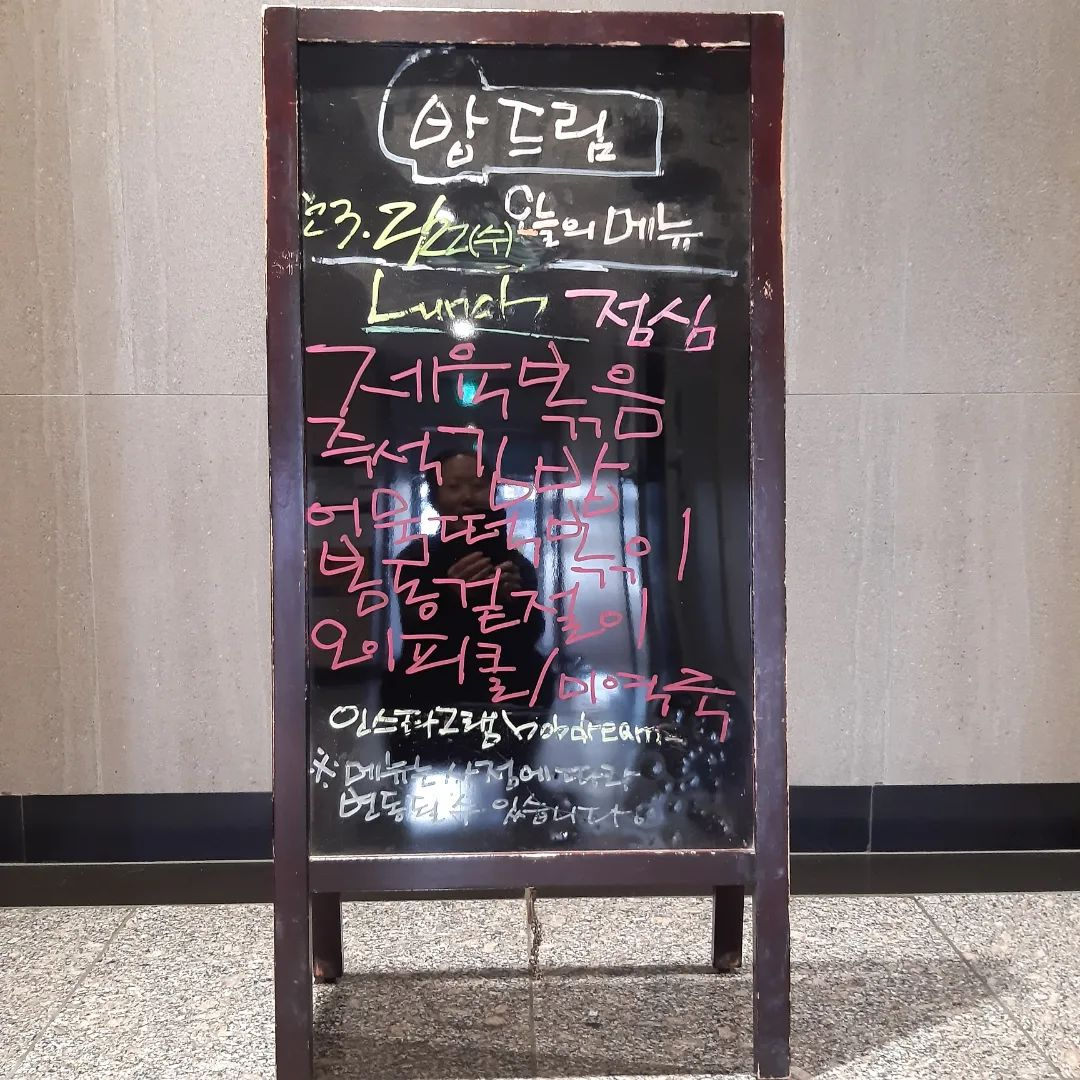
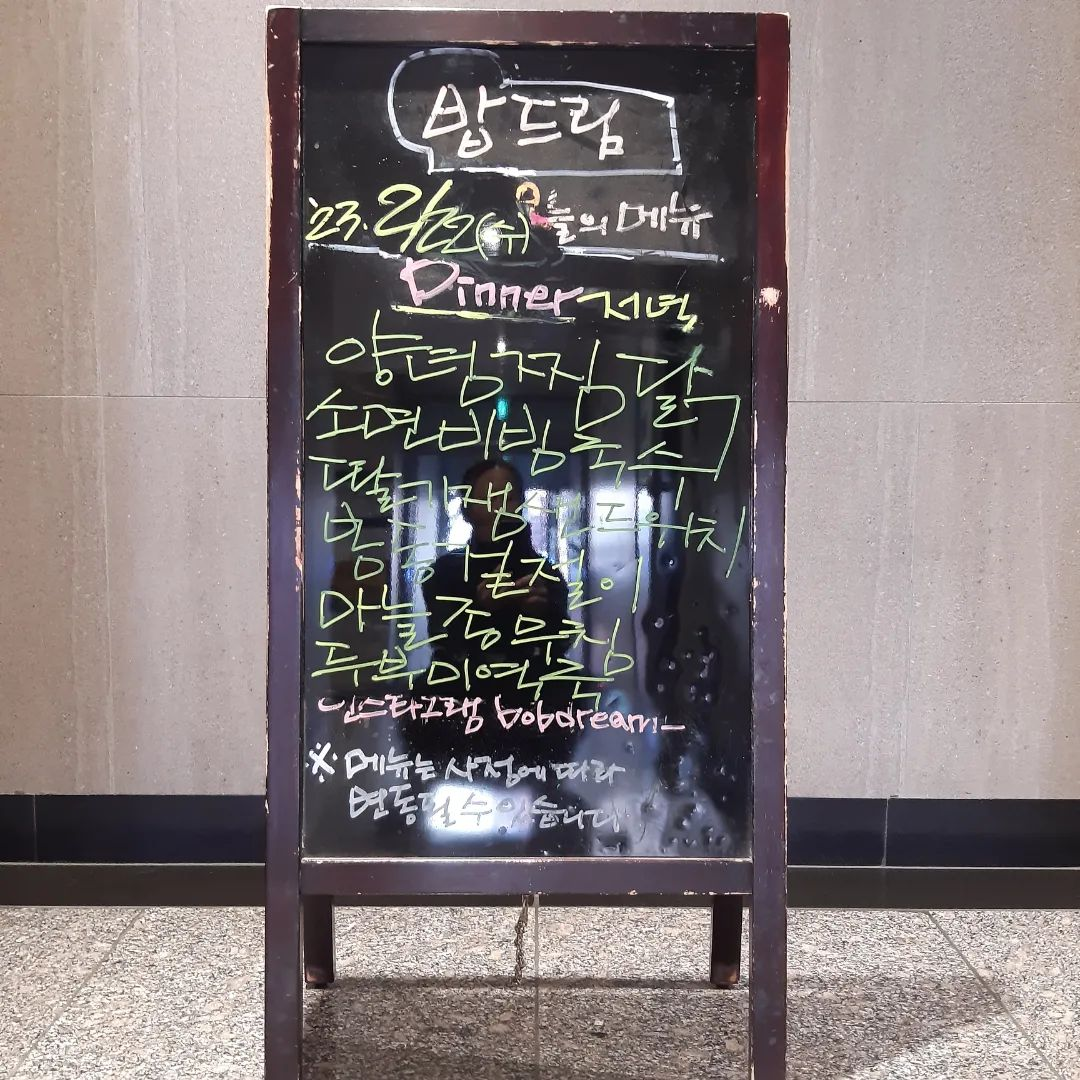
auto push

diff --git a/server/dreamtodaymenu.html b/server/dreamtodaymenu.html
@@ -1,1 +1,1 @@
-<h1 class="_aacl _aaco _aacu _aacx _aad7 _aade">2023.2.22 수요일 점심 메뉴🍚<br>🔸제육볶음 <br>🔸즉석김밥 <br>🔸어묵떡볶이 <br>🔸봄동겉절이 <br>🔸오이피클 <br>🔸미역국 <br><br><a class="x1i10hfl xjbqb8w x6umtig x1b1mbwd xaqea5y xav7gou x9f619 x1ypdohk xt0psk2 xe8uvvx xdj266r x11i5rnm xat24cr x1mh8g0r xexx8yu x4uap5 x18d9i69 xkhd6sd x16tdsg8 x1hl2dhg xggy1nq x1a2a7pz  _aa9_ _a6hd" href="/explore/tags/food/" role="link" tabindex="0">#food</a><a class="x1i10hfl xjbqb8w x6umtig x1b1mbwd xaqea5y xav7gou x9f619 x1ypdohk xt0psk2 xe8uvvx xdj266r x11i5rnm xat24cr x1mh8g0r xexx8yu x4uap5 x18d9i69 xkhd6sd x16tdsg8 x1hl2dhg xggy1nq x1a2a7pz  _aa9_ _a6hd" href="/explore/tags/koreanfood/" role="link" tabindex="0">#koreanfood</a><a class="x1i10hfl xjbqb8w x6umtig x1b1mbwd xaqea5y xav7gou x9f619 x1ypdohk xt0psk2 xe8uvvx xdj266r x11i5rnm xat24cr x1mh8g0r xexx8yu x4uap5 x18d9i69 xkhd6sd x16tdsg8 x1hl2dhg xggy1nq x1a2a7pz  _aa9_ _a6hd" href="/explore/tags/buffet/" role="link" tabindex="0">#buffet</a><a class="x1i10hfl xjbqb8w x6umtig x1b1mbwd xaqea5y xav7gou x9f619 x1ypdohk xt0psk2 xe8uvvx xdj266r x11i5rnm xat24cr x1mh8g0r xexx8yu x4uap5 x18d9i69 xkhd6sd x16tdsg8 x1hl2dhg xggy1nq x1a2a7pz  _aa9_ _a6hd" href="/explore/tags/%EB%B0%A5%EB%93%9C%EB%A6%BC/" role="link" tabindex="0">#밥드림</a><a class="x1i10hfl xjbqb8w x6umtig x1b1mbwd xaqea5y xav7gou x9f619 x1ypdohk xt0psk2 xe8uvvx xdj266r x11i5rnm xat24cr x1mh8g0r xexx8yu x4uap5 x18d9i69 xkhd6sd x16tdsg8 x1hl2dhg xggy1nq x1a2a7pz  _aa9_ _a6hd" href="/explore/tags/%EB%A7%9B%EC%A7%91/" role="link" tabindex="0">#맛집</a><a class="x1i10hfl xjbqb8w x6umtig x1b1mbwd xaqea5y xav7gou x9f619 x1ypdohk xt0psk2 xe8uvvx xdj266r x11i5rnm xat24cr x1mh8g0r xexx8yu x4uap5 x18d9i69 xkhd6sd x16tdsg8 x1hl2dhg xggy1nq x1a2a7pz  _aa9_ _a6hd" href="/explore/tags/%EB%85%B8%EB%9F%89%EC%A7%84/" role="link" tabindex="0">#노량진</a><a class="x1i10hfl xjbqb8w x6umtig x1b1mbwd xaqea5y xav7gou x9f619 x1ypdohk xt0psk2 xe8uvvx xdj266r x11i5rnm xat24cr x1mh8g0r xexx8yu x4uap5 x18d9i69 xkhd6sd x16tdsg8 x1hl2dhg xggy1nq x1a2a7pz  _aa9_ _a6hd" href="/explore/tags/%EB%85%B8%EB%9F%89%EC%A7%84%EB%A7%9B%EC%A7%91/" role="link" tabindex="0">#노량진맛집</a><a class="x1i10hfl xjbqb8w x6umtig x1b1mbwd xaqea5y xav7gou x9f619 x1ypdohk xt0psk2 xe8uvvx xdj266r x11i5rnm xat24cr x1mh8g0r xexx8yu x4uap5 x18d9i69 xkhd6sd x16tdsg8 x1hl2dhg xggy1nq x1a2a7pz  _aa9_ _a6hd" href="/explore/tags/%EB%85%B8%EB%9F%89%EC%A7%84%EB%A7%9B%EC%A7%91/" role="link" tabindex="0">#노량진맛집</a><a class="x1i10hfl xjbqb8w x6umtig x1b1mbwd xaqea5y xav7gou x9f619 x1ypdohk xt0psk2 xe8uvvx xdj266r x11i5rnm xat24cr x1mh8g0r xexx8yu x4uap5 x18d9i69 xkhd6sd x16tdsg8 x1hl2dhg xggy1nq x1a2a7pz  _aa9_ _a6hd" href="/explore/tags/%EC%A0%90%EC%8B%AC/" role="link" tabindex="0">#점심</a><a class="x1i10hfl xjbqb8w x6umtig x1b1mbwd xaqea5y xav7gou x9f619 x1ypdohk xt0psk2 xe8uvvx xdj266r x11i5rnm xat24cr x1mh8g0r xexx8yu x4uap5 x18d9i69 xkhd6sd x16tdsg8 x1hl2dhg xggy1nq x1a2a7pz  _aa9_ _a6hd" href="/explore/tags/%EC%A0%80%EB%85%81/" role="link" tabindex="0">#저녁</a><a class="x1i10hfl xjbqb8w x6umtig x1b1mbwd xaqea5y xav7gou x9f619 x1ypdohk xt0psk2 xe8uvvx xdj266r x11i5rnm xat24cr x1mh8g0r xexx8yu x4uap5 x18d9i69 xkhd6sd x16tdsg8 x1hl2dhg xggy1nq x1a2a7pz  _aa9_ _a6hd" href="/explore/tags/%EB%85%B8%EB%9F%89/" role="link" tabindex="0">#노량</a><a class="x1i10hfl xjbqb8w x6umtig x1b1mbwd xaqea5y xav7gou x9f619 x1ypdohk xt0psk2 xe8uvvx xdj266r x11i5rnm xat24cr x1mh8g0r xexx8yu x4uap5 x18d9i69 xkhd6sd x16tdsg8 x1hl2dhg xggy1nq x1a2a7pz  _aa9_ _a6hd" href="/explore/tags/%EA%B3%B5%EB%AC%B4%EC%9B%90/" role="link" tabindex="0">#공무원</a><a class="x1i10hfl xjbqb8w x6umtig x1b1mbwd xaqea5y xav7gou x9f619 x1ypdohk xt0psk2 xe8uvvx xdj266r x11i5rnm xat24cr x1mh8g0r xexx8yu x4uap5 x18d9i69 xkhd6sd x16tdsg8 x1hl2dhg xggy1nq x1a2a7pz  _aa9_ _a6hd" href="/explore/tags/%EA%B3%B5%EC%8B%9C/" role="link" tabindex="0">#공시</a><a class="x1i10hfl xjbqb8w x6umtig x1b1mbwd xaqea5y xav7gou x9f619 x1ypdohk xt0psk2 xe8uvvx xdj266r x11i5rnm xat24cr x1mh8g0r xexx8yu x4uap5 x18d9i69 xkhd6sd x16tdsg8 x1hl2dhg xggy1nq x1a2a7pz  _aa9_ _a6hd" href="/explore/tags/%EA%B3%B5%EC%8B%9C%EC%83%9D/" role="link" tabindex="0">#공시생</a><a class="x1i10hfl xjbqb8w x6umtig x1b1mbwd xaqea5y xav7gou x9f619 x1ypdohk xt0psk2 xe8uvvx xdj266r x11i5rnm xat24cr x1mh8g0r xexx8yu x4uap5 x18d9i69 xkhd6sd x16tdsg8 x1hl2dhg xggy1nq x1a2a7pz  _aa9_ _a6hd" href="/explore/tags/%EA%B2%BD%EC%B0%B0/" role="link" tabindex="0">#경찰</a><a class="x1i10hfl xjbqb8w x6umtig x1b1mbwd xaqea5y xav7gou x9f619 x1ypdohk xt0psk2 xe8uvvx xdj266r x11i5rnm xat24cr x1mh8g0r xexx8yu x4uap5 x18d9i69 xkhd6sd x16tdsg8 x1hl2dhg xggy1nq x1a2a7pz  _aa9_ _a6hd" href="/explore/tags/%EA%B2%BD%EC%8B%9C%EC%83%9D/" role="link" tabindex="0">#경시생</a><a class="x1i10hfl xjbqb8w x6umtig x1b1mbwd xaqea5y xav7gou x9f619 x1ypdohk xt0psk2 xe8uvvx xdj266r x11i5rnm xat24cr x1mh8g0r xexx8yu x4uap5 x18d9i69 xkhd6sd x16tdsg8 x1hl2dhg xggy1nq x1a2a7pz  _aa9_ _a6hd" href="/explore/tags/%EC%9E%84%EA%B3%A0/" role="link" tabindex="0">#임고</a><a class="x1i10hfl xjbqb8w x6umtig x1b1mbwd xaqea5y xav7gou x9f619 x1ypdohk xt0psk2 xe8uvvx xdj266r x11i5rnm xat24cr x1mh8g0r xexx8yu x4uap5 x18d9i69 xkhd6sd x16tdsg8 x1hl2dhg xggy1nq x1a2a7pz  _aa9_ _a6hd" href="/explore/tags/%EC%9E%84%EA%B3%A0%EC%83%9D/" role="link" tabindex="0">#임고생</a><a class="x1i10hfl xjbqb8w x6umtig x1b1mbwd xaqea5y xav7gou x9f619 x1ypdohk xt0psk2 xe8uvvx xdj266r x11i5rnm xat24cr x1mh8g0r xexx8yu x4uap5 x18d9i69 xkhd6sd x16tdsg8 x1hl2dhg xggy1nq x1a2a7pz  _aa9_ _a6hd" href="/explore/tags/%EC%9E%84%EC%9A%A9%EA%B3%A0%EC%8B%9C%EC%83%9D/" role="link" tabindex="0">#임용고시생</a><a class="x1i10hfl xjbqb8w x6umtig x1b1mbwd xaqea5y xav7gou x9f619 x1ypdohk xt0psk2 xe8uvvx xdj266r x11i5rnm xat24cr x1mh8g0r xexx8yu x4uap5 x18d9i69 xkhd6sd x16tdsg8 x1hl2dhg xggy1nq x1a2a7pz  _aa9_ _a6hd" href="/explore/tags/%EB%A8%B9%EC%8A%A4%ED%83%80%EA%B7%B8%EB%9E%A8/" role="link" tabindex="0">#먹스타그램</a><a class="x1i10hfl xjbqb8w x6umtig x1b1mbwd xaqea5y xav7gou x9f619 x1ypdohk xt0psk2 xe8uvvx xdj266r x11i5rnm xat24cr x1mh8g0r xexx8yu x4uap5 x18d9i69 xkhd6sd x16tdsg8 x1hl2dhg xggy1nq x1a2a7pz  _aa9_ _a6hd" href="/explore/tags/%ED%91%B8%EB%93%9C%EC%8A%A4%ED%83%80%EA%B7%B8%EB%9E%A8/" role="link" tabindex="0">#푸드스타그램</a><a class="x1i10hfl xjbqb8w x6umtig x1b1mbwd xaqea5y xav7gou x9f619 x1ypdohk xt0psk2 xe8uvvx xdj266r x11i5rnm xat24cr x1mh8g0r xexx8yu x4uap5 x18d9i69 xkhd6sd x16tdsg8 x1hl2dhg xggy1nq x1a2a7pz  _aa9_ _a6hd" href="/explore/tags/%ED%95%9C%EC%8B%9D/" role="link" tabindex="0">#한식</a><a class="x1i10hfl xjbqb8w x6umtig x1b1mbwd xaqea5y xav7gou x9f619 x1ypdohk xt0psk2 xe8uvvx xdj266r x11i5rnm xat24cr x1mh8g0r xexx8yu x4uap5 x18d9i69 xkhd6sd x16tdsg8 x1hl2dhg xggy1nq x1a2a7pz  _aa9_ _a6hd" href="/explore/tags/%EB%B7%94%ED%8E%98/" role="link" tabindex="0">#뷔페</a><a class="x1i10hfl xjbqb8w x6umtig x1b1mbwd xaqea5y xav7gou x9f619 x1ypdohk xt0psk2 xe8uvvx xdj266r x11i5rnm xat24cr x1mh8g0r xexx8yu x4uap5 x18d9i69 xkhd6sd x16tdsg8 x1hl2dhg xggy1nq x1a2a7pz  _aa9_ _a6hd" href="/explore/tags/%EB%93%9C%EB%A6%BC%ED%83%80%EC%9B%8C/" role="link" tabindex="0">#드림타워</a><a class="x1i10hfl xjbqb8w x6umtig x1b1mbwd xaqea5y xav7gou x9f619 x1ypdohk xt0psk2 xe8uvvx xdj266r x11i5rnm xat24cr x1mh8g0r xexx8yu x4uap5 x18d9i69 xkhd6sd x16tdsg8 x1hl2dhg xggy1nq x1a2a7pz  _aa9_ _a6hd" href="/explore/tags/%EB%93%9C%EB%A6%BC%ED%83%80%EC%9B%8C%EB%B7%94%ED%8E%98/" role="link" tabindex="0">#드림타워뷔페</a></h1>
+<h1 class="_aacl _aaco _aacu _aacx _aad7 _aade">2023.2.22 수요일 저녁 메뉴🍚<br>🔸양념찜닭 <br>🔸소면비빔국수 <br>🔸딸기잼샌드위치 <br>🔸봄동겉절이 <br>🔸마늘종무침 <br>🔸두부미역국<br><br><a class="x1i10hfl xjbqb8w x6umtig x1b1mbwd xaqea5y xav7gou x9f619 x1ypdohk xt0psk2 xe8uvvx xdj266r x11i5rnm xat24cr x1mh8g0r xexx8yu x4uap5 x18d9i69 xkhd6sd x16tdsg8 x1hl2dhg xggy1nq x1a2a7pz  _aa9_ _a6hd" href="/explore/tags/food/" role="link" tabindex="0">#food</a><a class="x1i10hfl xjbqb8w x6umtig x1b1mbwd xaqea5y xav7gou x9f619 x1ypdohk xt0psk2 xe8uvvx xdj266r x11i5rnm xat24cr x1mh8g0r xexx8yu x4uap5 x18d9i69 xkhd6sd x16tdsg8 x1hl2dhg xggy1nq x1a2a7pz  _aa9_ _a6hd" href="/explore/tags/koreanfood/" role="link" tabindex="0">#koreanfood</a><a class="x1i10hfl xjbqb8w x6umtig x1b1mbwd xaqea5y xav7gou x9f619 x1ypdohk xt0psk2 xe8uvvx xdj266r x11i5rnm xat24cr x1mh8g0r xexx8yu x4uap5 x18d9i69 xkhd6sd x16tdsg8 x1hl2dhg xggy1nq x1a2a7pz  _aa9_ _a6hd" href="/explore/tags/buffet/" role="link" tabindex="0">#buffet</a><a class="x1i10hfl xjbqb8w x6umtig x1b1mbwd xaqea5y xav7gou x9f619 x1ypdohk xt0psk2 xe8uvvx xdj266r x11i5rnm xat24cr x1mh8g0r xexx8yu x4uap5 x18d9i69 xkhd6sd x16tdsg8 x1hl2dhg xggy1nq x1a2a7pz  _aa9_ _a6hd" href="/explore/tags/%EB%B0%A5%EB%93%9C%EB%A6%BC/" role="link" tabindex="0">#밥드림</a><a class="x1i10hfl xjbqb8w x6umtig x1b1mbwd xaqea5y xav7gou x9f619 x1ypdohk xt0psk2 xe8uvvx xdj266r x11i5rnm xat24cr x1mh8g0r xexx8yu x4uap5 x18d9i69 xkhd6sd x16tdsg8 x1hl2dhg xggy1nq x1a2a7pz  _aa9_ _a6hd" href="/explore/tags/%EB%A7%9B%EC%A7%91/" role="link" tabindex="0">#맛집</a><a class="x1i10hfl xjbqb8w x6umtig x1b1mbwd xaqea5y xav7gou x9f619 x1ypdohk xt0psk2 xe8uvvx xdj266r x11i5rnm xat24cr x1mh8g0r xexx8yu x4uap5 x18d9i69 xkhd6sd x16tdsg8 x1hl2dhg xggy1nq x1a2a7pz  _aa9_ _a6hd" href="/explore/tags/%EB%85%B8%EB%9F%89%EC%A7%84/" role="link" tabindex="0">#노량진</a><a class="x1i10hfl xjbqb8w x6umtig x1b1mbwd xaqea5y xav7gou x9f619 x1ypdohk xt0psk2 xe8uvvx xdj266r x11i5rnm xat24cr x1mh8g0r xexx8yu x4uap5 x18d9i69 xkhd6sd x16tdsg8 x1hl2dhg xggy1nq x1a2a7pz  _aa9_ _a6hd" href="/explore/tags/%EB%85%B8%EB%9F%89%EC%A7%84%EB%A7%9B%EC%A7%91/" role="link" tabindex="0">#노량진맛집</a><a class="x1i10hfl xjbqb8w x6umtig x1b1mbwd xaqea5y xav7gou x9f619 x1ypdohk xt0psk2 xe8uvvx xdj266r x11i5rnm xat24cr x1mh8g0r xexx8yu x4uap5 x18d9i69 xkhd6sd x16tdsg8 x1hl2dhg xggy1nq x1a2a7pz  _aa9_ _a6hd" href="/explore/tags/%EB%85%B8%EB%9F%89%EC%A7%84%EB%A7%9B%EC%A7%91/" role="link" tabindex="0">#노량진맛집</a><a class="x1i10hfl xjbqb8w x6umtig x1b1mbwd xaqea5y xav7gou x9f619 x1ypdohk xt0psk2 xe8uvvx xdj266r x11i5rnm xat24cr x1mh8g0r xexx8yu x4uap5 x18d9i69 xkhd6sd x16tdsg8 x1hl2dhg xggy1nq x1a2a7pz  _aa9_ _a6hd" href="/explore/tags/%EC%A0%90%EC%8B%AC/" role="link" tabindex="0">#점심</a><a class="x1i10hfl xjbqb8w x6umtig x1b1mbwd xaqea5y xav7gou x9f619 x1ypdohk xt0psk2 xe8uvvx xdj266r x11i5rnm xat24cr x1mh8g0r xexx8yu x4uap5 x18d9i69 xkhd6sd x16tdsg8 x1hl2dhg xggy1nq x1a2a7pz  _aa9_ _a6hd" href="/explore/tags/%EC%A0%80%EB%85%81/" role="link" tabindex="0">#저녁</a><a class="x1i10hfl xjbqb8w x6umtig x1b1mbwd xaqea5y xav7gou x9f619 x1ypdohk xt0psk2 xe8uvvx xdj266r x11i5rnm xat24cr x1mh8g0r xexx8yu x4uap5 x18d9i69 xkhd6sd x16tdsg8 x1hl2dhg xggy1nq x1a2a7pz  _aa9_ _a6hd" href="/explore/tags/%EB%85%B8%EB%9F%89/" role="link" tabindex="0">#노량</a><a class="x1i10hfl xjbqb8w x6umtig x1b1mbwd xaqea5y xav7gou x9f619 x1ypdohk xt0psk2 xe8uvvx xdj266r x11i5rnm xat24cr x1mh8g0r xexx8yu x4uap5 x18d9i69 xkhd6sd x16tdsg8 x1hl2dhg xggy1nq x1a2a7pz  _aa9_ _a6hd" href="/explore/tags/%EA%B3%B5%EB%AC%B4%EC%9B%90/" role="link" tabindex="0">#공무원</a><a class="x1i10hfl xjbqb8w x6umtig x1b1mbwd xaqea5y xav7gou x9f619 x1ypdohk xt0psk2 xe8uvvx xdj266r x11i5rnm xat24cr x1mh8g0r xexx8yu x4uap5 x18d9i69 xkhd6sd x16tdsg8 x1hl2dhg xggy1nq x1a2a7pz  _aa9_ _a6hd" href="/explore/tags/%EA%B3%B5%EC%8B%9C/" role="link" tabindex="0">#공시</a><a class="x1i10hfl xjbqb8w x6umtig x1b1mbwd xaqea5y xav7gou x9f619 x1ypdohk xt0psk2 xe8uvvx xdj266r x11i5rnm xat24cr x1mh8g0r xexx8yu x4uap5 x18d9i69 xkhd6sd x16tdsg8 x1hl2dhg xggy1nq x1a2a7pz  _aa9_ _a6hd" href="/explore/tags/%EA%B3%B5%EC%8B%9C%EC%83%9D/" role="link" tabindex="0">#공시생</a><a class="x1i10hfl xjbqb8w x6umtig x1b1mbwd xaqea5y xav7gou x9f619 x1ypdohk xt0psk2 xe8uvvx xdj266r x11i5rnm xat24cr x1mh8g0r xexx8yu x4uap5 x18d9i69 xkhd6sd x16tdsg8 x1hl2dhg xggy1nq x1a2a7pz  _aa9_ _a6hd" href="/explore/tags/%EA%B2%BD%EC%B0%B0/" role="link" tabindex="0">#경찰</a><a class="x1i10hfl xjbqb8w x6umtig x1b1mbwd xaqea5y xav7gou x9f619 x1ypdohk xt0psk2 xe8uvvx xdj266r x11i5rnm xat24cr x1mh8g0r xexx8yu x4uap5 x18d9i69 xkhd6sd x16tdsg8 x1hl2dhg xggy1nq x1a2a7pz  _aa9_ _a6hd" href="/explore/tags/%EA%B2%BD%EC%8B%9C%EC%83%9D/" role="link" tabindex="0">#경시생</a><a class="x1i10hfl xjbqb8w x6umtig x1b1mbwd xaqea5y xav7gou x9f619 x1ypdohk xt0psk2 xe8uvvx xdj266r x11i5rnm xat24cr x1mh8g0r xexx8yu x4uap5 x18d9i69 xkhd6sd x16tdsg8 x1hl2dhg xggy1nq x1a2a7pz  _aa9_ _a6hd" href="/explore/tags/%EC%9E%84%EA%B3%A0/" role="link" tabindex="0">#임고</a><a class="x1i10hfl xjbqb8w x6umtig x1b1mbwd xaqea5y xav7gou x9f619 x1ypdohk xt0psk2 xe8uvvx xdj266r x11i5rnm xat24cr x1mh8g0r xexx8yu x4uap5 x18d9i69 xkhd6sd x16tdsg8 x1hl2dhg xggy1nq x1a2a7pz  _aa9_ _a6hd" href="/explore/tags/%EC%9E%84%EA%B3%A0%EC%83%9D/" role="link" tabindex="0">#임고생</a><a class="x1i10hfl xjbqb8w x6umtig x1b1mbwd xaqea5y xav7gou x9f619 x1ypdohk xt0psk2 xe8uvvx xdj266r x11i5rnm xat24cr x1mh8g0r xexx8yu x4uap5 x18d9i69 xkhd6sd x16tdsg8 x1hl2dhg xggy1nq x1a2a7pz  _aa9_ _a6hd" href="/explore/tags/%EC%9E%84%EC%9A%A9%EA%B3%A0%EC%8B%9C%EC%83%9D/" role="link" tabindex="0">#임용고시생</a><a class="x1i10hfl xjbqb8w x6umtig x1b1mbwd xaqea5y xav7gou x9f619 x1ypdohk xt0psk2 xe8uvvx xdj266r x11i5rnm xat24cr x1mh8g0r xexx8yu x4uap5 x18d9i69 xkhd6sd x16tdsg8 x1hl2dhg xggy1nq x1a2a7pz  _aa9_ _a6hd" href="/explore/tags/%EB%A8%B9%EC%8A%A4%ED%83%80%EA%B7%B8%EB%9E%A8/" role="link" tabindex="0">#먹스타그램</a><a class="x1i10hfl xjbqb8w x6umtig x1b1mbwd xaqea5y xav7gou x9f619 x1ypdohk xt0psk2 xe8uvvx xdj266r x11i5rnm xat24cr x1mh8g0r xexx8yu x4uap5 x18d9i69 xkhd6sd x16tdsg8 x1hl2dhg xggy1nq x1a2a7pz  _aa9_ _a6hd" href="/explore/tags/%ED%91%B8%EB%93%9C%EC%8A%A4%ED%83%80%EA%B7%B8%EB%9E%A8/" role="link" tabindex="0">#푸드스타그램</a><a class="x1i10hfl xjbqb8w x6umtig x1b1mbwd xaqea5y xav7gou x9f619 x1ypdohk xt0psk2 xe8uvvx xdj266r x11i5rnm xat24cr x1mh8g0r xexx8yu x4uap5 x18d9i69 xkhd6sd x16tdsg8 x1hl2dhg xggy1nq x1a2a7pz  _aa9_ _a6hd" href="/explore/tags/%ED%95%9C%EC%8B%9D/" role="link" tabindex="0">#한식</a><a class="x1i10hfl xjbqb8w x6umtig x1b1mbwd xaqea5y xav7gou x9f619 x1ypdohk xt0psk2 xe8uvvx xdj266r x11i5rnm xat24cr x1mh8g0r xexx8yu x4uap5 x18d9i69 xkhd6sd x16tdsg8 x1hl2dhg xggy1nq x1a2a7pz  _aa9_ _a6hd" href="/explore/tags/%EB%B7%94%ED%8E%98/" role="link" tabindex="0">#뷔페</a><a class="x1i10hfl xjbqb8w x6umtig x1b1mbwd xaqea5y xav7gou x9f619 x1ypdohk xt0psk2 xe8uvvx xdj266r x11i5rnm xat24cr x1mh8g0r xexx8yu x4uap5 x18d9i69 xkhd6sd x16tdsg8 x1hl2dhg xggy1nq x1a2a7pz  _aa9_ _a6hd" href="/explore/tags/%EB%93%9C%EB%A6%BC%ED%83%80%EC%9B%8C/" role="link" tabindex="0">#드림타워</a><a class="x1i10hfl xjbqb8w x6umtig x1b1mbwd xaqea5y xav7gou x9f619 x1ypdohk xt0psk2 xe8uvvx xdj266r x11i5rnm xat24cr x1mh8g0r xexx8yu x4uap5 x18d9i69 xkhd6sd x16tdsg8 x1hl2dhg xggy1nq x1a2a7pz  _aa9_ _a6hd" href="/explore/tags/%EB%93%9C%EB%A6%BC%ED%83%80%EC%9B%8C%EB%B7%94%ED%8E%98/" role="link" tabindex="0">#드림타워뷔페</a></h1>

diff --git a/server/tong_todaymenu.html b/server/tong_todaymenu.html
@@ -1,1 +1,1 @@
-<h1 class="_aacl _aaco _aacu _aacx _aad7 _aade">💕노량진 통통이뷔페입니다💕<br>.<br>오늘자 2월 22일 점심메뉴가 올라왔어요😶<br>❗오늘점심메뉴❗<br>통통돈불고기볶음<br>엄지척군만두튀김<br>두부조림<br>풋마늘무생채무침<br>콩나물무침<br>싱싱청상추<br>달콤시없는청포도<br>얼큰김칫국<br>속편한매실차입니다<br>.<br>맛있게드세요🍴<br>.<br><a class="x1i10hfl xjbqb8w x6umtig x1b1mbwd xaqea5y xav7gou x9f619 x1ypdohk xt0psk2 xe8uvvx xdj266r x11i5rnm xat24cr x1mh8g0r xexx8yu x4uap5 x18d9i69 xkhd6sd x16tdsg8 x1hl2dhg xggy1nq x1a2a7pz  _aa9_ _a6hd" href="/explore/tags/%EB%85%B8%EB%9F%89%EC%A7%84%ED%86%B5%ED%86%B5%EC%9D%B4%EB%B7%94%ED%8E%98/" role="link" tabindex="0"></h1>
+<h1 class="_aacl _aaco _aacu _aacx _aad7 _aade">💕노량진 통통이뷔페입니다💕<br>.<br>오늘자 2월 22일 저녁메뉴가 올라왔어요😶<br>❗오늘저녁메뉴❗<br>통통닭갈비볶음<br>순대찜<br>딸기잼샌드위치<br>느타리버섯볶음<br>다시마초고추장<br>잔멸치볶음<br>씨없는청포도<br>배춧국<br>속편한매실차입니다<br>.<br>맛있게드세요🍴<br>.<br><a class="x1i10hfl xjbqb8w x6umtig x1b1mbwd xaqea5y xav7gou x9f619 x1ypdohk xt0psk2 xe8uvvx xdj266r x11i5rnm xat24cr x1mh8g0r xexx8yu x4uap5 x18d9i69 xkhd6sd x16tdsg8 x1hl2dhg xggy1nq x1a2a7pz  _aa9_ _a6hd" href="/explore/tags/%EB%85%B8%EB%9F%89%EC%A7%84%ED%86%B5%ED%86%B5%EC%9D%B4%EB%B7%94%ED%8E%98/" role="link" tabindex="0"></h1>
